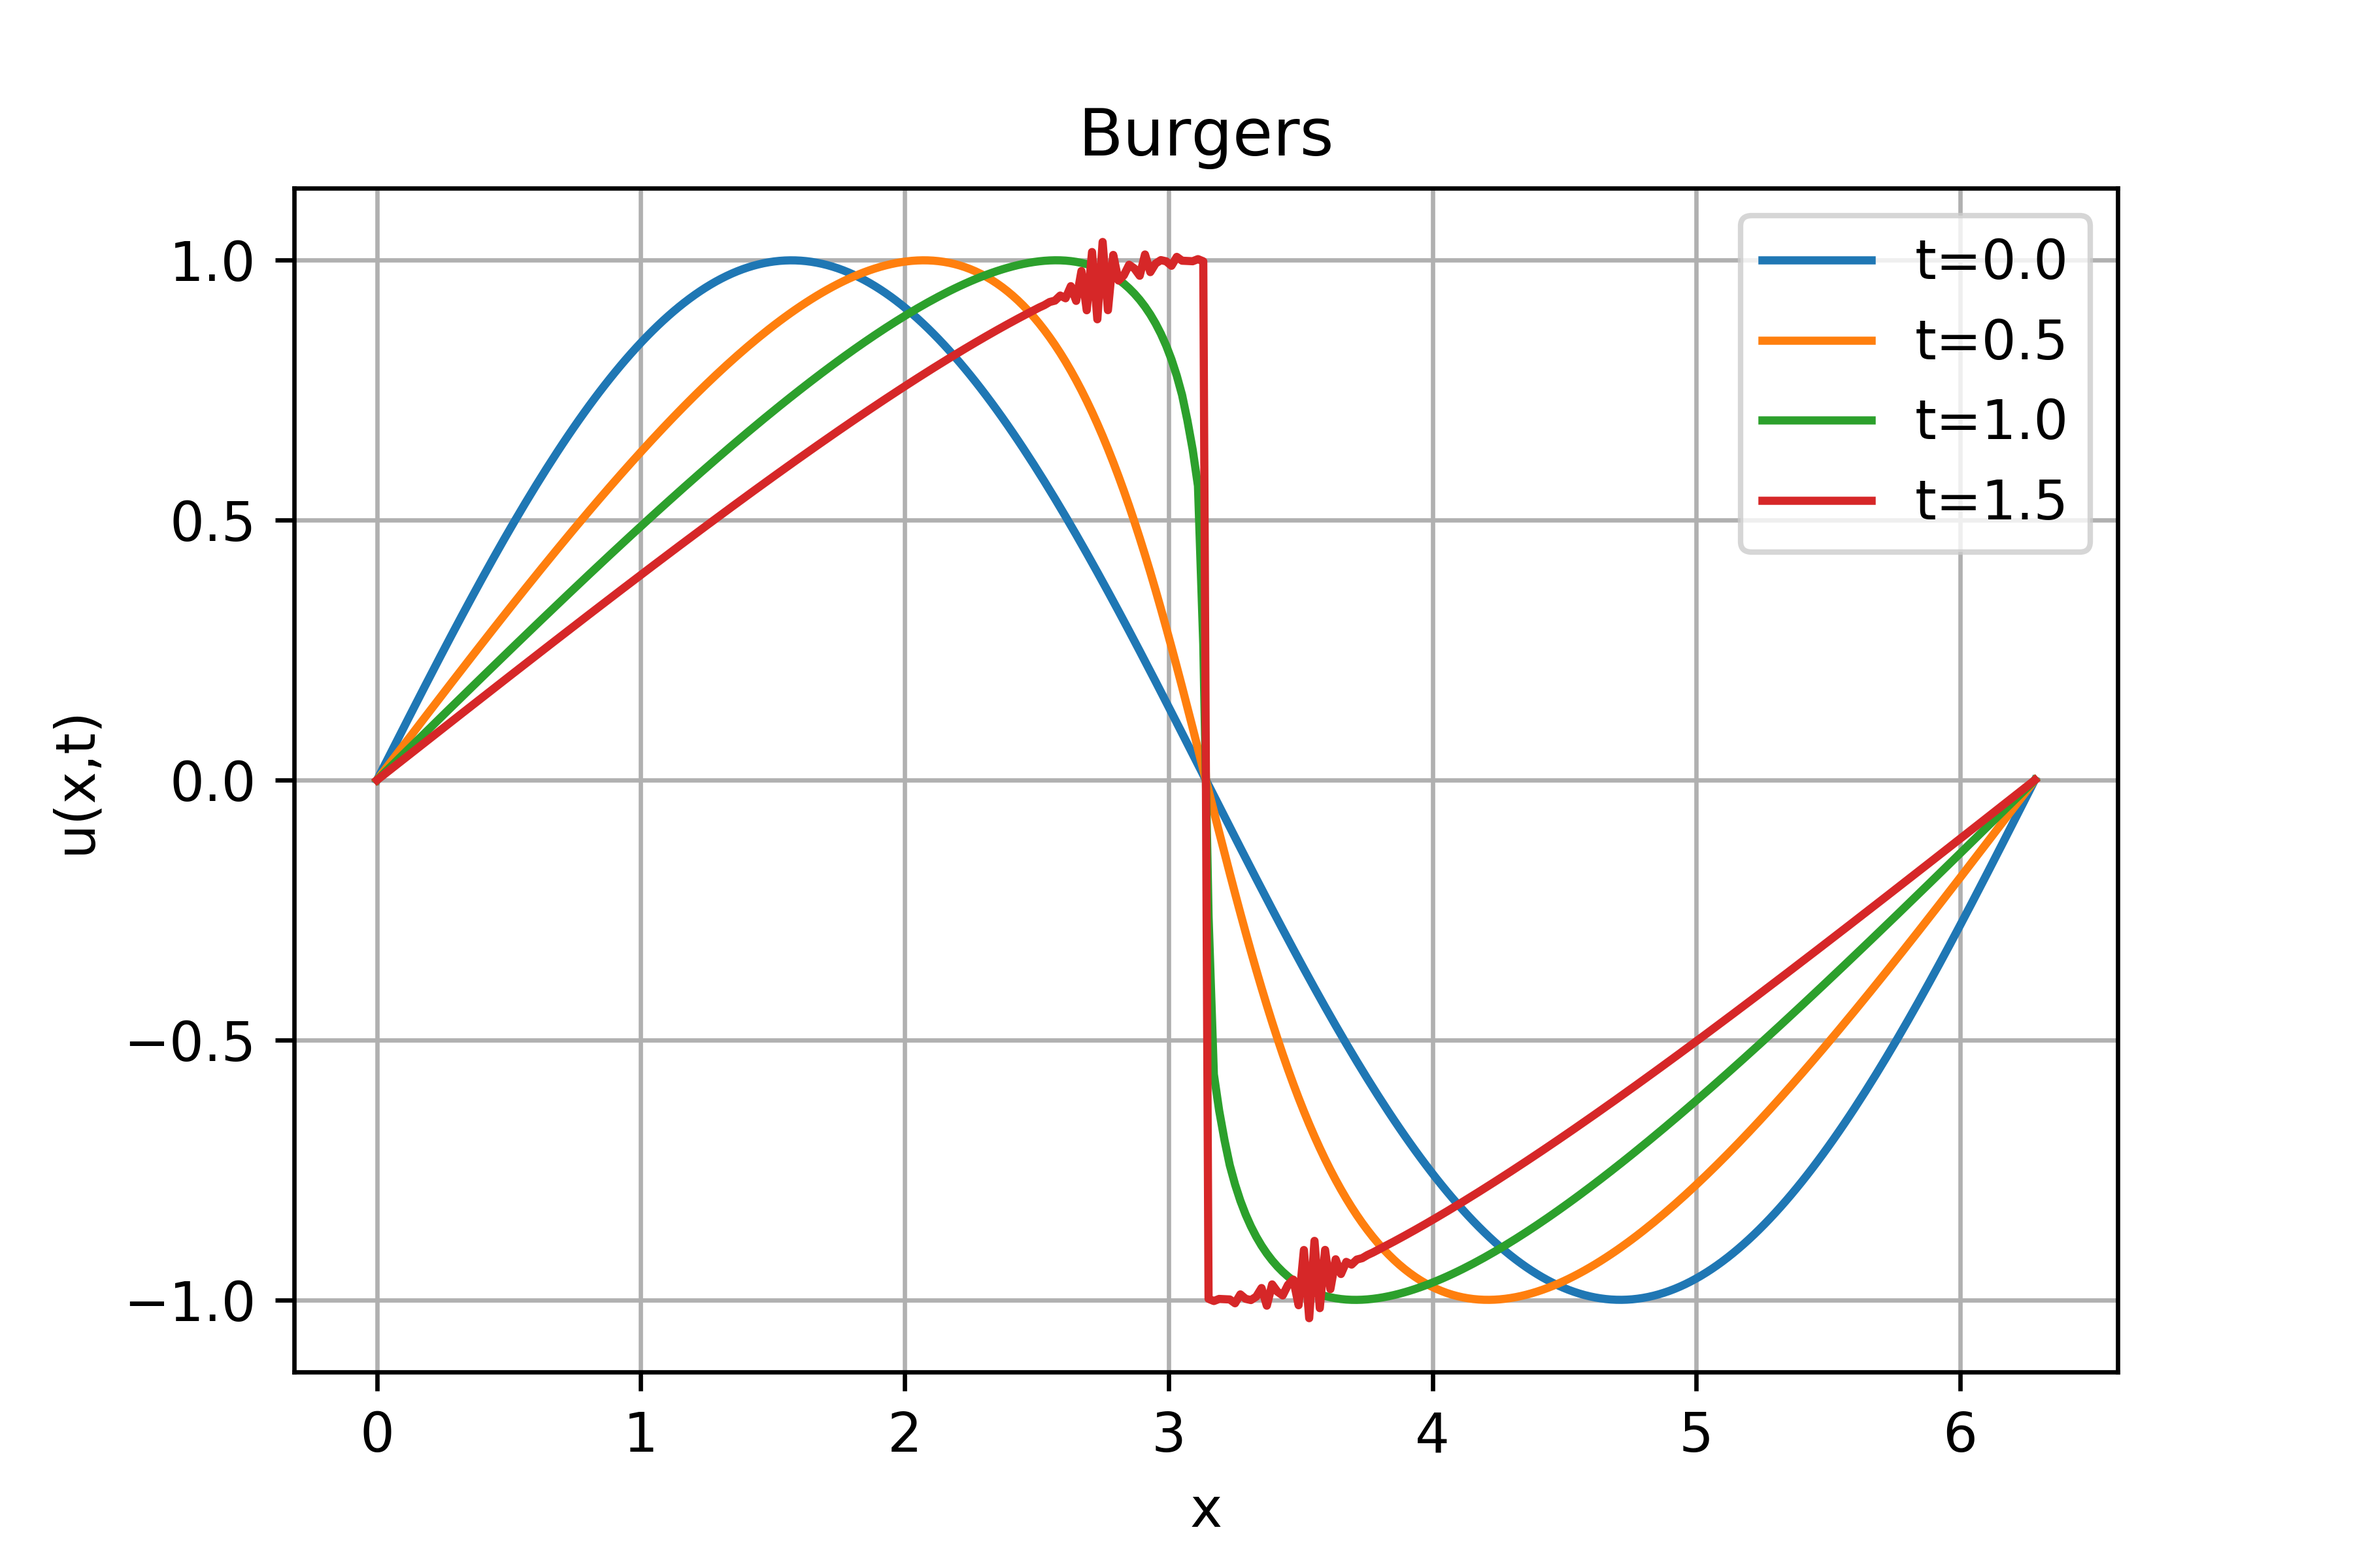
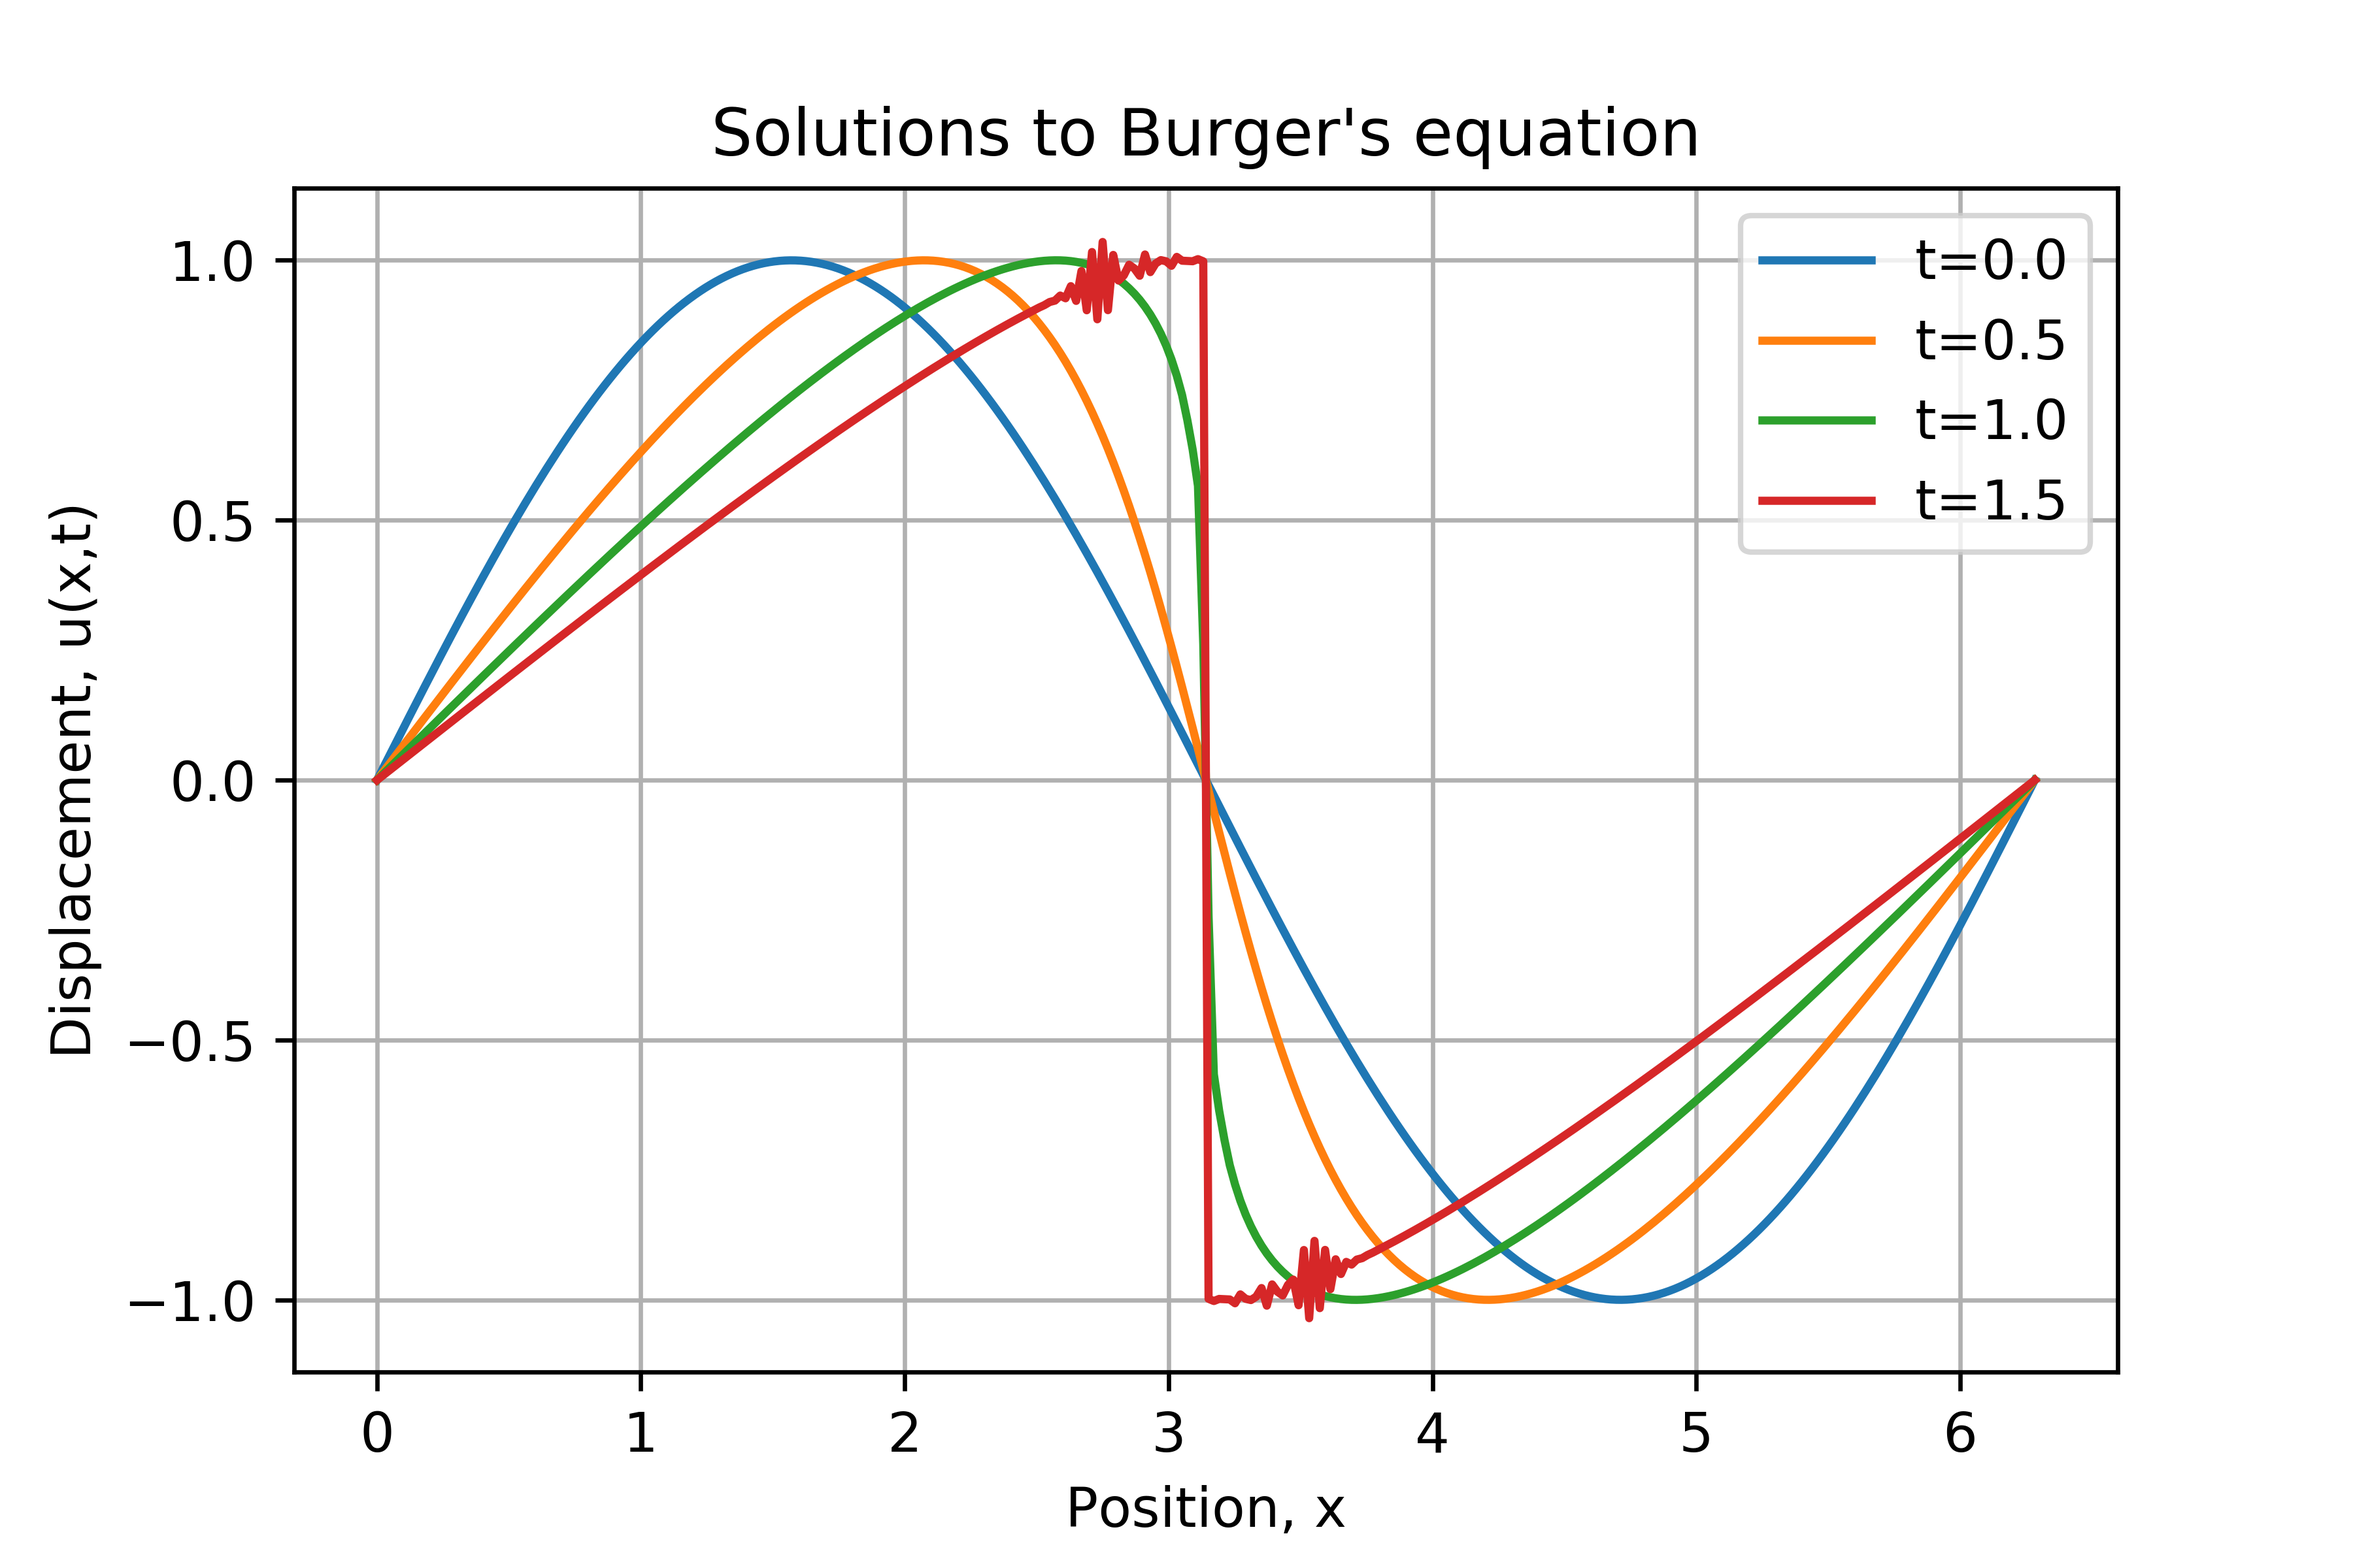
complete q3

diff --git a/Lab08/tex_file/PHY407_Lab08.tex b/Lab08/tex_file/PHY407_Lab08.tex
@@ -19,7 +19,7 @@
 
 \maketitle
 
-\noindent \textbf{Distribution of work:} Question 1 was completed by Pierino. Question 2 was completed by Hayden.
+\noindent \textbf{Distribution of work:} Question 1 was completed by Hayden. Question 2 and 3 were completed by Pierino.
 
 \section{Temperature Distribution in a Heat Conductor}
 
@@ -66,4 +66,50 @@ Using the coordinate system as it is defined by the axes in figure \ref{fig:1c},
 \end{figure}
 
 
+\section{FTCS solution of the wave equation}
+
+\section{Solving Burger's equation}
+For this part of the lab we desire to solve Burger's equation
+
+\begin{equation}
+	\frac{\partial u}{\partial t} + \epsilon \frac{\partial}{\partial x}(\frac{u^2}{2}) = 0
+\end{equation}
+
+using Euler's method for an initial step forward and then using the leapfrog method.
+Using the notation $u^j_i = u(x_i, t_j)$ where $x_i = i\Delta x$ for $i=0,...,N_x-1$, $\Delta x=0.02$ and $t_j = j\Delta t$ for $j=0,...,N_t-1$, $\Delta t=0.005$, the Euler step is performed using the equation
+
+\begin{equation}
+	u^1_i = u^0_i - \Delta t\epsilon u^0_i\frac{\partial u^0_i}{\partial x}
+\end{equation}
+
+and the subsequent leapfrog method is applied using
+
+\begin{equation}
+	u^{j+1}_i = u^{j-1}_i - \frac{\epsilon\Delta t}{2\Delta x}((u^j_{i+1})^2 - (u^j_{i-1})^2)
+\end{equation}
+
+The values used in our solution were $\epsilon = 1.0$, $L_x = 2 \pi $, $T_f = 2$, $N_x = integer(\frac{L_x}{\Delta x})$, $N_t = integer(\frac{T_f}{\Delta t})$ with initial condition $u(x, t=0)=\sin(x)$ and boundary condition $u(x=0,t)=0=u(x=L_x,t)$.
+The solution of Burger's equation is plotted for times: $t=0.0,0.5,1.0,1.5$ shown in figure \ref{fig:burgers_even}.
+From our solution we can see that as time progresses there's a shock formation around the mid point $x=Lx/2$, resulting in our initial sine function to become a sawtooth wave function. As time progresses we can see the formation of noise fluctuations approaching the shock ($x=Lx/2$) from both sides which we deemed to be unrealistic features of the solution. These noise fluctuations seem to be due to the method implemented to solve Burger's equation. This point becomes evident when we once again plotted the solution but increased the value of $N_x$ by one, shown in figure \ref{fig:burgers_odd}. This small increase resulted in a magnification of the noise. Furthermore, whenever $N_x$ was altered to be even the resulting solution matched that of figure \ref{fig:burgers_even} and whenever it was alter to be odd the resulting solution matched that of figure \ref{fig:burgers_odd}. Thus the noise was deemed to be due to the leapfrog method and fixed time steps used to solve the equation. Lastly we decreased the step sizes $\delta x$ and $delta t$ by an order of magnitude and observed a dampening of this noise of the method implemented. The damped version of our original solution is shown in figure \ref{fig:burgers_damped}. 
+
+\begin{figure}[H]
+	\centering
+	\includegraphics[width=0.8\textwidth]{../images/burgers.png}
+	\caption{Plot of the solution of Burger's equation for times $t=0.0,0.5,1.0,1.5$ using an even number of points, $N_x=314$, with $\Delta x=0.02$ and $\Delta t=0.005$}
+	\label{fig:burgers_even}
+\end{figure}
+
+\begin{figure}[H]
+	\centering
+	\includegraphics[width=0.8\textwidth]{../images/burgers_odd.png}
+	\caption{Plot of the solution of Burger's equation for times $t=0.0,0.5,1.0,1.5$ using an odd number of points, $N_x=315$, with $\Delta x=0.02$ and $\Delta t=0.005$}
+	\label{fig:burgers_odd}
+\end{figure}
+
+\begin{figure}[H]
+	\centering
+	\includegraphics[width=0.8\textwidth]{../images/burgers_damped.png}
+	\caption{Plot of the solution of Burger's equation for times $t=0.0,0.5,1.0,1.5$ using step sizes that are an order of magnitude smaller $\Delta x=0.0019$ and $\Delta t=0.000476$, with even number of points, $N_x=3298$. The noise in the solution can be seen to dampen out when compared to that of figure \ref{fig:burgers_even}}
+	\label{fig:burgers_damped}
+\end{figure}
 \end{document}

diff --git a/Lab08/code/Lab08_Q3.py b/Lab08/code/Lab08_Q3.py
@@ -1,10 +1,13 @@
 # -*- coding: utf-8 -*-
 """
-Created on Thu Nov  1 07:36:40 2018
+Solves Burger's equation using one Euler forward step and subsequent steps
+using the leapfrog method. Plots the solution for various times.
 
-@author: Pierino
+Created on Thu Nov  1 07:36:40 2018
+@author: Pierino Zindel
 """
 
+#import libraries
 import numpy as np
 import pylab as plt
 
@@ -26,19 +29,19 @@ t2 = 0.5
 t3 = 1.0
 t4 = 1.5
 
-#offset for timing
+#offset for plot timing
 delta = 1e-10
 
 #create arrays
-u = np.zeros([Nt, Nx]) #positions for fixed time
-ut = np.empty(Nx, float) #for fixed position
+u = np.zeros([Nt, Nx]) #contains solutions throughout time
+ut = np.empty(Nx, float) #contains solutions for a given time
 
 #initial condition
 #u(x, t=0) = sin(x)
 x = np.linspace(0, Lx, Nx)
 u[0] = np.sin(x)
 
-#boundry condition
+#boundry conditions
 #u(x=0, t) = 0
 #u(x=Lx, t) = 0
 ut[0] = 0
@@ -46,14 +49,12 @@ ut[-1] = 0
 u[:,0] = 0
 u[:,-1] = 0
 
-
 #apply initial step with Euler forward
 u[1] = np.sin(x)*(1 - epsilon*dt*np.cos(x))
 
-#plot for t=0
+#plot initial wave for t=0
 plt.figure
 plt.plot(x, u[0], label='t=0.0')
-
 
 #loop over time, excluding the initial condition
 for j in range(1,Nt-1):
@@ -63,9 +64,10 @@ for j in range(1,Nt-1):
     for i in range(1,Nx-1):
         #formula constant
         beta = epsilon*dt/dx
+        #apply leapfrog step
         u[j+1,i] = u[j-1,i] - beta/2*((u[j,i+1])**2 - (u[j,i-1])**2)
 
-    #plot the function as the given times
+    #plot the function at the given times
     if abs(t-t2) < delta:
         plt.plot(x, u[j], label='t=0.5')
     elif abs(t-t3) < delta:
@@ -74,9 +76,9 @@ for j in range(1,Nt-1):
         plt.plot(x, u[j], label='t=1.5')
         
 #plotting values
-plt.xlabel("x")
-plt.ylabel("u(x,t)")
-plt.title("Burgers")
+plt.xlabel("Position, x")
+plt.ylabel("Displacement, u(x,t)")
+plt.title("Solutions to Burger's equation")
 plt.grid()
 plt.legend()
 plt.savefig("../images/burgers.png", dpi=600)

diff --git a/Lab08/code/Lab08_Q2.py b/Lab08/code/Lab08_Q2.py
@@ -23,7 +23,7 @@ def psi0(x):
     return C*x*(L-x)*np.exp(-(x-d)**2/(2*sigma**2))/L**2
 
 #grid points
-N = 200
+N = 500
 #grid spacing
 a = L/N
 
@@ -35,7 +35,7 @@ phi_step = phi
 
 #loop
 t = 0.0
-t_f = 1.0
+t_f = 50e-3/100
 
 #array of positions corresponding to each loop over time
 traj = [phi]
